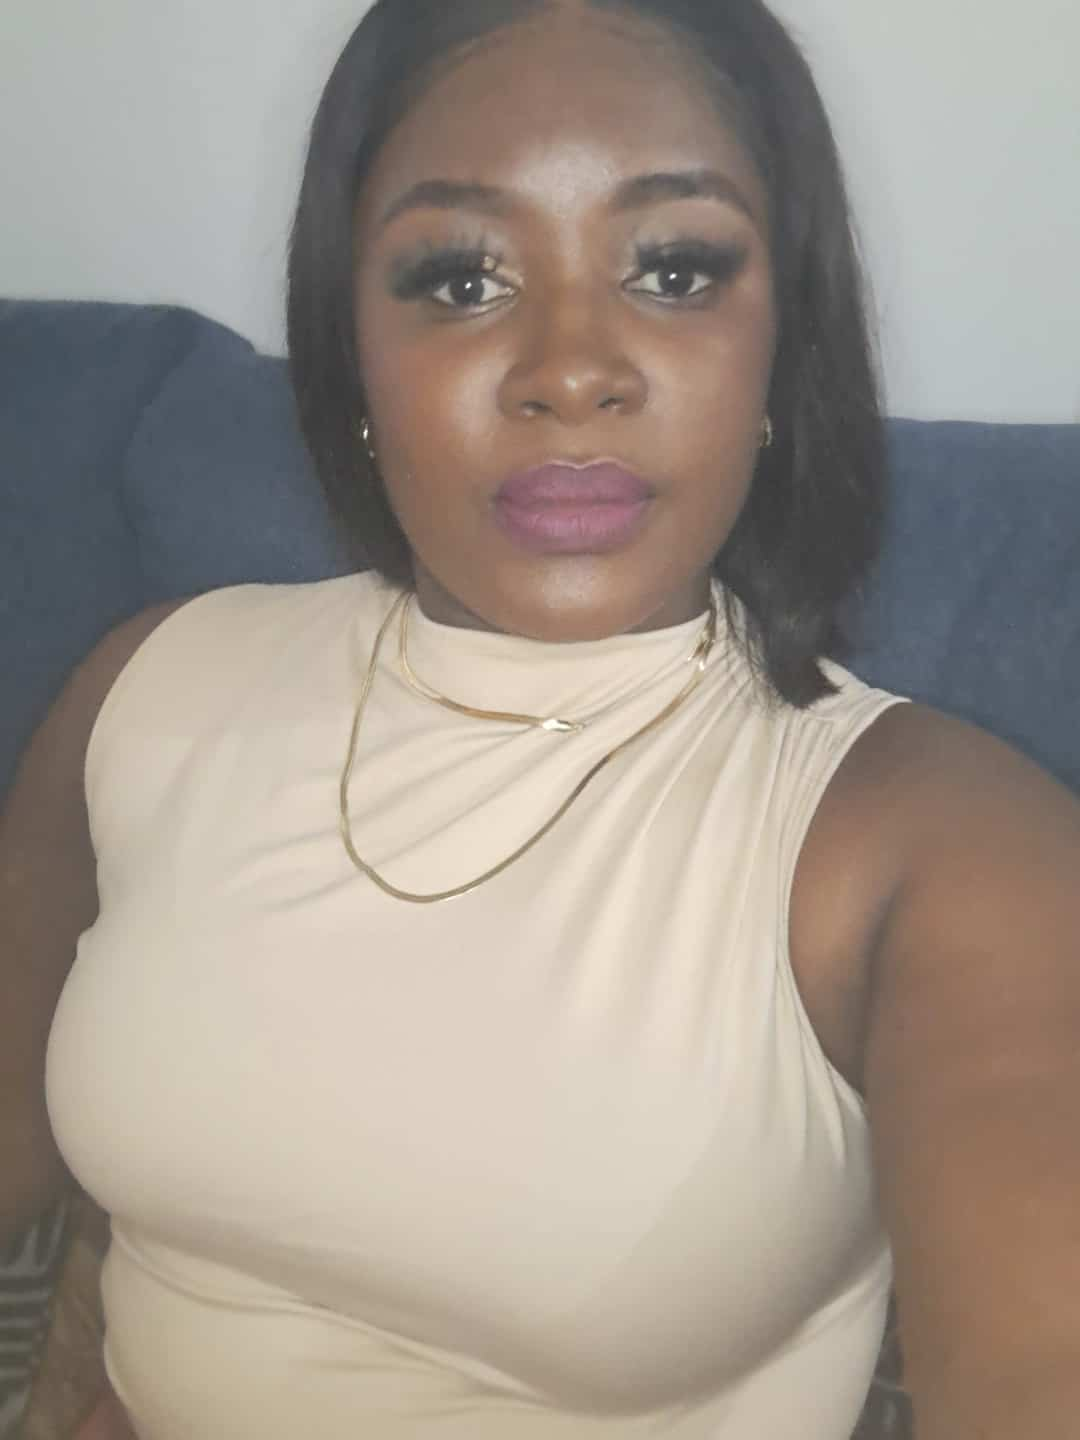
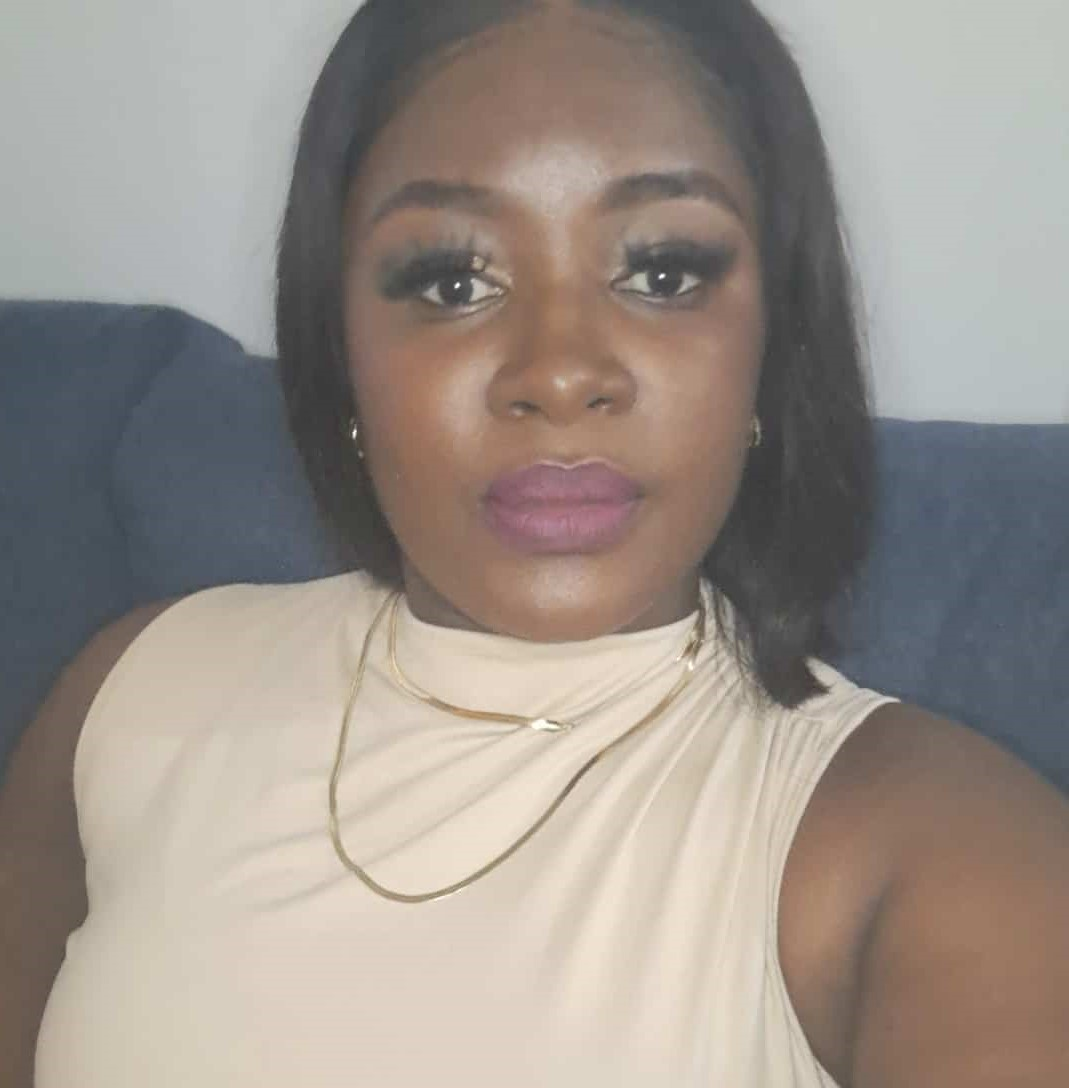
homepage

diff --git a/styles/styles.css b/styles/styles.css
@@ -1,3 +1,11 @@
+* { margin:0; 
+    padding:0; 
+    box-sizing: border-box;}
+body {
+    font-size: 16px;
+    font-family: Arial, sans-serif;
+}
+
 nav {
     background-color: darkblue;
     padding: 10px;
@@ -10,35 +18,37 @@ nav a {
 }
 
 h1 {
-    color: darkblue;
+    color: rgb(70, 70, 185);
+    padding: 0.5rem;
+}
+main {
+    max-width: 640px;
 }
 
 main img {
-    width: 150px;
+    width: 120px;
     height: auto;
-    border: 1px solid black;
+    border: 1px solid darkblue;
     padding: 2px;
     box-shadow: 0 0 30px gray;
+    float: right;
+    margin: 0 0 1rem 1rem;
 }
 
 p {
     padding: 0;
 }
 
-main {
-    max-width: 840px;
-}
-
 aside {
     width: 20rem;
-    margin: 1rem;
-    border: 1px solid rgb(0, 0, 0, 0.2);
-    padding: 2px;
-    background-color: #eee;
-    color: #333;
     text-align: center;
+    position: relative;
 }
-
+aside h2{
+    position: absolute;
+    top: 47px;
+    left: 150px;
+}
 aside img {
     width: 200px;
     height: auto;
@@ -48,4 +58,15 @@ footer {
     margin-top: 15px;
     border-top: 1px solid #000;
     text-align: center;
+}
+/* Class Selectors */
+.box { margin: 1rem;
+    border: 1px solid (red, green, blue) /10%;
+    padding: 1rem;
+    background-color: #ddd;
+    color: #000;
+
+}
+.indent {
+    padding-left: 2rem;
 }

diff --git a/index.html b/index.html
@@ -17,6 +17,8 @@
         <nav>
             <a href="#">Home</a>
             <a href="wwr/">Rafting Website</a>
+            <a href="https://www.linkedin.com/in/eden-medley-02662752/">Linkedin</a>
+            <a href="https://www.facebook.com/">Facebook</a>
         </nav>
     </header>
     <main>
@@ -28,8 +30,12 @@
             My favorite things to do are sleeping, restaurant hopping, and going to the beach with
             my girls. I am currently studying Web Development and Design at BYU Idaho.
             I am excited to learn more about more about creating webpages.</p>
+        <ul class="box indent"><li><a href="https://churchofjesuschristtemples.org/panama-city-panama-temple/" target="_blank">Panama City Panama Temple</a></li>
+            <li> <a href="https://churchofjesuschristtemples.org/salt-lake-temple/" target="_blank">Salt Lake Temple</a></li>
+            <li><a href="https://churchofjesuschristtemples.org/santo-domingo-dominican-republic-temple/" target="_blank">Santo Domingo Dominican Republic Temple</a></li>
+        </ul>
     </main>
-    <aside>
+    <aside class="box">
         <h2>Jamaica</h2>
         <img src="images/jamaica.jpg" alt="Island paradise">
         <p> Jamaica is a beautiful island paradise. Beauty exists in the little details from the
